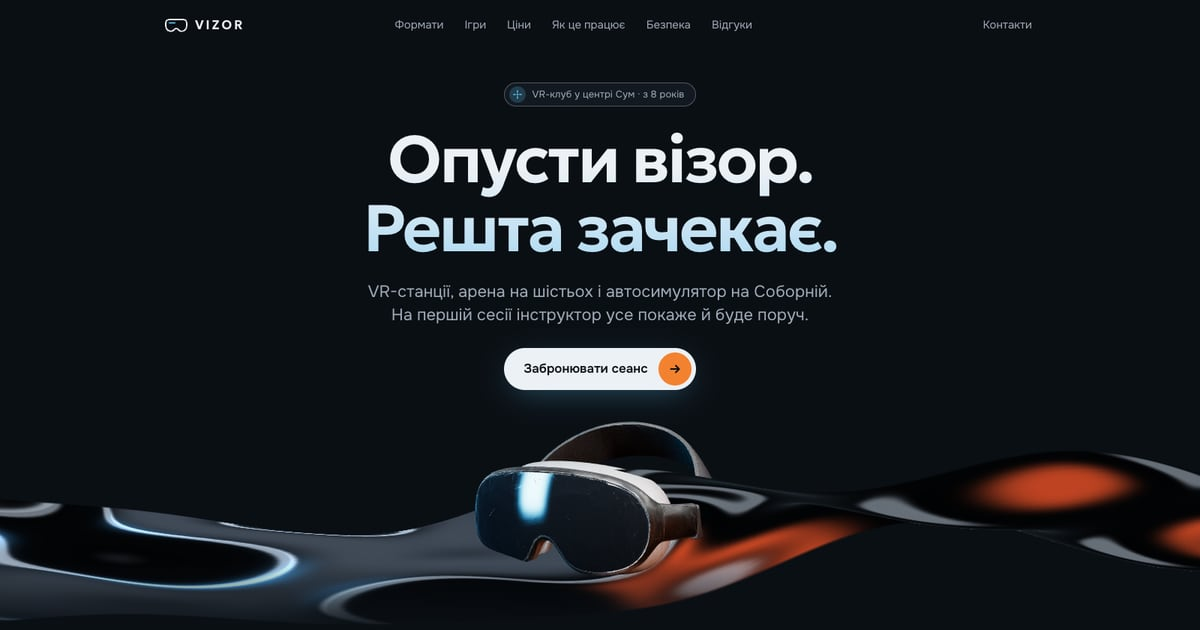
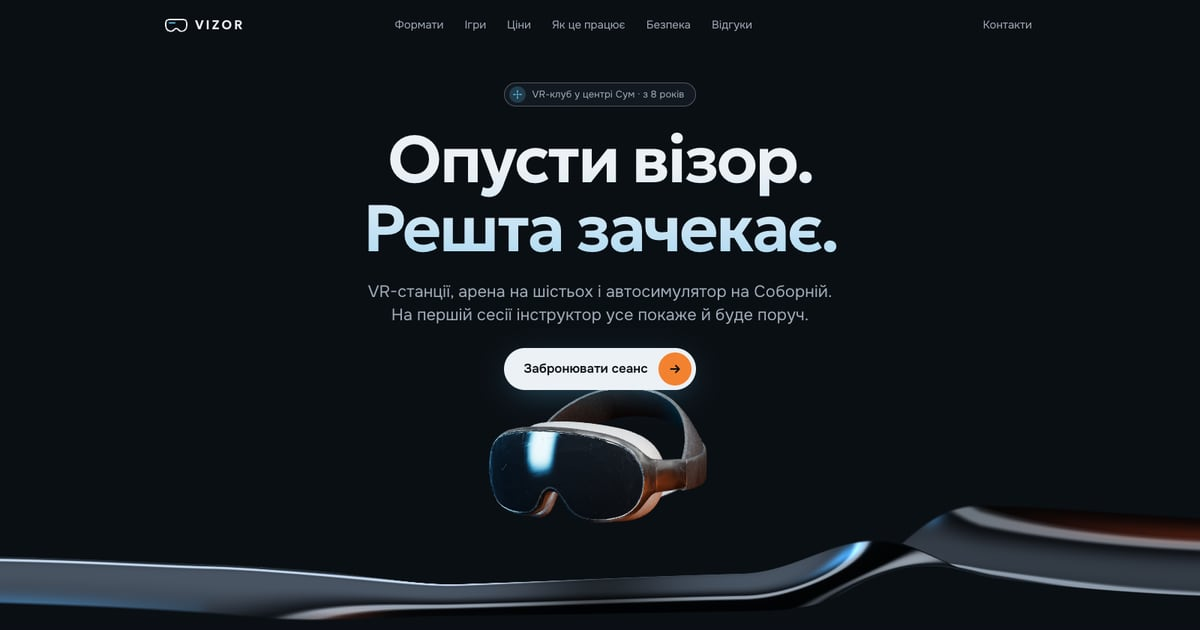
Separate helmet from ribbon in hero scene
Ribbon is now a narrow band pushed back in depth with a calm valley under
the helmet, contact shadow, and a computed clearance; helmet no longer
moves through the ribbon on scroll.

Changed region(s): [[0.0, 0.6333, 1.0, 0.9952]]

diff --git a/scene.js b/scene.js
@@ -119,43 +119,61 @@ export async function loadHelmet() {
 }
 
 /* ---------- Стрічка ---------- */
+/* Габарити шолома всередині квадрата постера (частки сторони, від центру). Виміряно по постеру. */
+const HELM_HALF_W = 0.38;
+const HELM_BOTTOM = 0.245;
+/* Стрічка лежить далі від камери, шолом ближче: по глибині вони не перетинаються ніколи. */
+const RIBBON_Z = -3;
+const HELMET_Z = 0.8;
+
 const RIBBON_VERT = /* glsl */ `
   uniform float uTime;
   uniform float uHalfLen;
   uniform float uHalfW;
   uniform float uCenterY;
   uniform float uXScale;
+  uniform float uHelmX;   /* де висить шолом */
+  uniform float uClear;   /* півширина спокійної зони під шоломом */
+  uniform float uSpread;  /* довжина переходу від спокійної зони до «крил» */
+  uniform float uRise;    /* наскільки крила піднімаються */
+  uniform float uAmpIn;   /* амплітуда хвилі під шоломом (обмежена) */
+  uniform float uAmpOut;  /* амплітуда хвилі на крилах */
   varying vec3 vPos;
   varying vec3 vNormal;
   varying vec2 vUv2;
+  varying float vPx;
 
   vec3 ribbon(float u, float v) {
     float t = uTime;
     float px = u * uHalfLen;
-    float x = px * uXScale; /* на вузьких екранах хвилі частіші */
-    /* вісь стрічки */
-    float cy = sin(x * 0.52 + t * 0.21) * 0.17 + sin(x * 1.18 - t * 0.15) * 0.06;
-    float cz = cos(x * 0.44 + t * 0.18) * 0.40;
-    /* скручування навколо осі: стрічка то лягає площиною, то стає майже ребром */
-    float th = 0.25 + 0.95 * sin(x * 0.58 - t * 0.19) + 0.30 * sin(x * 1.31 + t * 0.13);
-    float w = uHalfW * (1.0 + 0.20 * sin(x * 0.77 + t * 0.11));
-    /* складки шовку впоперек */
-    float fold = sin(v * 2.6 + x * 1.6 + t * 0.27) * 0.30 + sin(v * 5.0 - x * 1.1 - t * 0.2) * 0.08;
+    /* e = 0 під шоломом, 1 на крилах */
+    float e = smoothstep(uClear, uClear + uSpread, abs(px - uHelmX));
+    float x = px * uXScale;
+    float wave = sin(x * 0.62 + t * 0.22) * 0.7 + sin(x * 1.3 - t * 0.16) * 0.3; /* у межах [-1, 1] */
+    float cy = uCenterY + uRise * e + wave * mix(uAmpIn, uAmpOut, e);
+    float cz = cos(x * 0.5 + t * 0.18) * 0.25 * e;
+    /* скручування: під шоломом стрічка лежить площиною до камери, на крилах перевертається */
+    float thFree = 0.4 + x * 0.55 + t * 0.08 + 0.6 * sin(x * 0.9 - t * 0.2);
+    float thIn = -0.55 + 0.1 * sin(t * 0.3 + x);
+    float th = mix(thIn, thFree, e);
+    float w = uHalfW * (1.0 + 1.3 * e + 0.1 * sin(x * 0.8 + t * 0.11));
     float a = v * w;
-    float b = fold * w;
-    return vec3(px, uCenterY + cy + a * cos(th) + b * sin(th), cz + a * sin(th) - b * cos(th));
+    float b = (v * v - 0.5) * 0.55 * w; /* легкий жолоб упоперек: бліки тягнуться вздовж стрічки */
+    return vec3(px, cy + a * cos(th) + b * sin(th), cz + a * sin(th) - b * cos(th));
   }
 
   void main() {
     float u = position.x;
     float v = position.y;
     vec3 p = ribbon(u, v);
-    vec3 du = ribbon(u + 0.004, v) - p;
+    vec3 du = ribbon(u + 0.003, v) - p;
     vec3 dv = ribbon(u, v + 0.02) - p;
     vNormal = normalize(cross(du, dv));
-    vPos = p;
+    vec4 wp = modelMatrix * vec4(p, 1.0);
+    vPos = wp.xyz;
     vUv2 = vec2(u, v);
-    gl_Position = projectionMatrix * viewMatrix * vec4(p, 1.0);
+    vPx = p.x;
+    gl_Position = projectionMatrix * viewMatrix * wp;
   }
 `;
 
@@ -168,46 +186,53 @@ const RIBBON_FRAG = /* glsl */ `
   uniform vec3 uAccent;
   uniform vec3 uAccent2;
   uniform float uFade;
+  uniform vec3 uShadow; /* x центру, півширина, сила */
   varying vec3 vPos;
   varying vec3 vNormal;
   varying vec2 vUv2;
+  varying float vPx;
 
   /* Уявна «студія», яку відбиває рідкий метал. Усі кольори — з палітри сайту. */
   vec3 studio(vec3 r) {
     float up = r.y * 0.5 + 0.5;
-    vec3 c = mix(uSurface * 0.8, uSurface * 1.55, smoothstep(0.0, 0.5, up));
-    c = mix(c, uMuted * 0.7, smoothstep(0.5, 1.0, up));
-    /* довгі софтбокси: дають дзеркальні смуги, як на полірованому титані */
-    float s1 = smoothstep(0.50, 0.98, sin(r.y * 6.0 + sin(r.x * 2.4) * 1.1 + 0.5));
-    float s2 = smoothstep(0.80, 1.00, sin(r.y * 11.0 - r.x * 1.9 + 2.4));
-    c += uMuted * 0.32 * s1 + uText * (0.5 * s1 * s1 * s1 * s1 + 0.2 * s2 * s1);
+    vec3 c = mix(uSurface * 0.75, uSurface * 1.7, smoothstep(0.0, 0.5, up));
+    c = mix(c, uMuted * 0.8, smoothstep(0.45, 1.0, up));
+    /* довгі софтбокси: дзеркальні смуги вздовж стрічки */
+    float s1 = smoothstep(0.35, 0.98, sin(r.y * 4.6 + r.z * 1.4 + 0.4));
+    float s2 = smoothstep(0.75, 1.00, sin(r.y * 9.0 + r.z * 2.0 + 2.2));
+    c += uMuted * 0.30 * s1 + uText * (0.55 * s1 * s1 * s1 + 0.22 * s2 * s1);
     /* два акцентні відблиски: вузькі, тому кольору на екрані небагато */
-    float gA = pow(max(dot(r, normalize(vec3(0.78, -0.30, 0.55))), 0.0), 44.0);
-    float gB = pow(max(dot(r, normalize(vec3(-0.72, 0.38, 0.58))), 0.0), 32.0);
-    c += mix(uAccent, uText, 0.12) * gA * 0.95 + mix(uAccent2, uText, 0.12) * gB * 0.9;
+    float gA = pow(max(dot(r, normalize(vec3(0.70, -0.25, 0.66))), 0.0), 30.0);
+    float gB = pow(max(dot(r, normalize(vec3(-0.66, 0.30, 0.68))), 0.0), 24.0);
+    c += mix(uAccent, uText, 0.12) * gA * 1.0 + mix(uAccent2, uText, 0.12) * gB * 0.95;
     return c;
   }
 
   void main() {
     vec3 n = normalize(vNormal);
     vec3 V = normalize(cameraPosition - vPos);
-    if (dot(n, V) < 0.0) n = -n;
+    float back = step(dot(n, V), 0.0);
+    n = mix(n, -n, back);
     float ndv = max(dot(n, V), 0.0);
     float fres = pow(1.0 - ndv, 4.0);
     vec3 col = studio(reflect(-V, n));
-    /* перламутровий френель по краях складок */
-    col += mix(uAccent2, uText, 0.65) * fres * 0.30;
-    /* легке затемнення в глибині складок */
-    col *= 0.72 + 0.28 * smoothstep(-0.9, 0.6, n.y);
+    col += mix(uAccent2, uText, 0.65) * fres * 0.28;
+    /* зворотний бік стрічки трохи темніший: видно, що це стрічка, а не площина */
+    col *= mix(1.0, 0.72, back);
 
-    float edge = smoothstep(1.0, 0.965, abs(vUv2.y));
+    /* м'яка тінь від шолома */
+    float d = (vPx - uShadow.x) / uShadow.y;
+    float sh = uShadow.z * exp(-d * d);
+    col *= 1.0 - sh;
+
+    float edge = smoothstep(1.0, 0.94, abs(vUv2.y));
     float alpha = edge * uFade;
     gl_FragColor = vec4(col * alpha, alpha);
   }
 `;
 
 export function makeRibbon(pal, mobile) {
-  const geo = new THREE.PlaneGeometry(2, 2, mobile ? 110 : 220, mobile ? 20 : 40);
+  const geo = new THREE.PlaneGeometry(2, 2, mobile ? 140 : 280, mobile ? 10 : 16);
   const mat = new THREE.ShaderMaterial({
     vertexShader: RIBBON_VERT,
     fragmentShader: RIBBON_FRAG,
@@ -219,15 +244,20 @@ export function makeRibbon(pal, mobile) {
     blendSrc: THREE.OneFactor,
     blendDst: THREE.OneMinusSrcAlphaFactor,
     uniforms: {
-      uTime: { value: 0 }, uHalfLen: { value: 4 }, uHalfW: { value: 0.5 }, uCenterY: { value: -1.2 }, uXScale: { value: 1 },
-      uFade: { value: 1 },
+      uTime: { value: 0 }, uHalfLen: { value: 4 }, uHalfW: { value: 0.15 }, uCenterY: { value: -1.5 },
+      uXScale: { value: 1 }, uHelmX: { value: 0 }, uClear: { value: 1 }, uSpread: { value: 0.9 },
+      uRise: { value: 0.25 }, uAmpIn: { value: 0.03 }, uAmpOut: { value: 0.15 },
+      uFade: { value: 1 }, uShadow: { value: new THREE.Vector3(0, 1, 0) },
       uBg: { value: pal.bg }, uSurface: { value: pal.surface }, uText: { value: pal.text },
       uMuted: { value: pal.muted }, uAccent: { value: pal.accent }, uAccent2: { value: pal.accent2 },
     },
   });
   const mesh = new THREE.Mesh(geo, mat);
   mesh.frustumCulled = false;
-  mesh.position.z = -2.4;
+  /* Координати стрічки задаємо в площині екрана (z = 0), а сам меш відсуваємо вглиб
+     і збільшуємо на стільки ж, щоб на екрані він лишився там, де порахували. */
+  mesh.position.z = RIBBON_Z;
+  mesh.scale.setScalar((CAM_Z - RIBBON_Z) / CAM_Z);
   mesh.renderOrder = -1;
   return mesh;
 }
@@ -251,7 +281,8 @@ export function initHero({ canvas, hero, anchor, mobile, onFirstFrame, onHelmet,
   let helmetIn = 0;
 
   const VH = visibleHeight();
-  const state = { w: 0, h: 0, baseX: 0, baseY: 0, scale: 1, pitchFix: 0 };
+  const NEAR = (CAM_Z - HELMET_Z) / CAM_Z; /* шолом ближче до камери: компенсуємо перспективу */
+  const state = { w: 0, h: 0, baseX: 0, baseY: 0, scale: 1, pitchFix: 0, shadowR: 1 };
 
   function layout() {
     const rect = hero.getBoundingClientRect();
@@ -269,16 +300,35 @@ export function initHero({ canvas, hero, anchor, mobile, onFirstFrame, onHelmet,
     const a = anchor.getBoundingClientRect();
     const cx = a.left + a.width / 2 - rect.left;
     const cy = a.top + a.height / 2 - rect.top;
+    const side = a.width * unit;
     state.baseX = (cx - w / 2) * unit;
     state.baseY = (h / 2 - cy) * unit;
-    state.scale = (a.width * unit) / POSTER_SPAN;
+    state.scale = side / POSTER_SPAN;
     state.pitchFix = Math.atan2(state.baseY, CAM_Z);
 
-    /* Стрічка: нижня третина, краї за межами екрана. */
-    U.uHalfLen.value = VW * 0.5 * 1.45 + 0.6;
-    U.uHalfW.value = VH * (mobile ? 0.085 : 0.105);
-    U.uCenterY.value = state.baseY - VH * 0.055;
+    /* Зазор між шоломом і стрічкою рахуємо з запасом на всі рухи:
+       покачування (0.035 * scale), нахили за курсором і власне погойдування (0.03 * scale)
+       плюс видимий проміжок 3 % висоти екрана. Найвища точка стрічки під шоломом —
+       uCenterY + uAmpIn + 1.25 * uHalfW — завжди нижча за цю межу. */
+    const helmBottom = state.baseY - HELM_BOTTOM * side;
+    const limit = helmBottom - 0.065 * state.scale - 0.03 * VH;
+    const floor = -VH / 2 + 0.012 * VH;
+    const room = Math.max(limit - floor, 0.05 * VH);
+    const ampIn = room * 0.1;
+    const halfW = Math.min((room - 2 * ampIn) / 2.5, 0.045 * VH);
+    U.uAmpIn.value = ampIn;
+    U.uHalfW.value = halfW;
+    U.uCenterY.value = limit - ampIn - halfW * 1.25;
+    U.uHelmX.value = state.baseX;
+    U.uClear.value = HELM_HALF_W * side * 1.05 + 0.1 * state.scale;
+    U.uSpread.value = Math.min(1.5, Math.max(0.35, VW * 0.22));
+    /* на вузьких екранах крилам ніде розгорнутися, тому вони майже не піднімаються */
+    const wing = Math.min(1, Math.max(0.2, (VW / 2 - U.uClear.value) / 1.2));
+    U.uRise.value = 0.05 * VH * wing;
+    U.uAmpOut.value = 0.035 * VH * wing;
+    U.uHalfLen.value = VW * 0.5 * 1.25 + 0.4;
     U.uXScale.value = Math.min(2.2, Math.max(1, 1.5 / camera.aspect));
+    state.shadowR = HELM_HALF_W * side * 0.62;
   }
 
   const pointer = { x: 0, y: 0, tx: 0, ty: 0 };
@@ -313,24 +363,26 @@ export function initHero({ canvas, hero, anchor, mobile, onFirstFrame, onHelmet,
 
     U.uTime.value = time;
     const s = scrollP * scrollP * (3 - 2 * scrollP);
-    ribbon.position.y = -s * 0.5;
+    ribbon.position.y = -s * 0.6; /* при прокрутці стрічка йде вниз, шолом угору: зазор тільки росте */
     U.uFade.value = 1 - Math.min(1, Math.max(0, (scrollP - 0.45) / 0.5));
 
+    let lift = 0;
     if (helmet) {
       helmetIn = Math.min(1, helmetIn + dt * 0.8);
       const ease = helmetIn * helmetIn * (3 - 2 * helmetIn);
-      const sc = state.scale * (1 - s * 0.45);
-      rig.scale.setScalar(sc);
-      rig.position.set(
-        state.baseX,
-        state.baseY + Math.sin(time * 0.9) * 0.035 * ease * state.scale + s * 0.9,
-        -s * 5,
-      );
+      const bob = Math.sin(time * 0.9) * 0.035 * ease * state.scale;
+      lift = bob + s * 1.1;
+      /* Шолом не йде вглиб крізь стрічку: він зменшується й піднімається, лишаючись перед нею. */
+      rig.scale.setScalar(state.scale * NEAR * (1 - s * 0.5));
+      rig.position.set(state.baseX * NEAR, (state.baseY + lift) * NEAR, HELMET_Z);
       /* Покачування + кілька градусів за курсором + поворот при прокрутці. */
-      helmet.rotation.x = BASE_ROT.x + state.pitchFix + Math.sin(time * 0.6) * 0.03 * ease + pointer.y * 0.07 + s * 0.35;
-      helmet.rotation.y = BASE_ROT.y + Math.sin(time * 0.45) * 0.06 * ease + pointer.x * 0.1 + s * 1.5;
+      helmet.rotation.x = BASE_ROT.x + state.pitchFix + Math.sin(time * 0.6) * 0.03 * ease + pointer.y * 0.06 + s * 0.3;
+      helmet.rotation.y = BASE_ROT.y + Math.sin(time * 0.45) * 0.06 * ease + pointer.x * 0.1 + s * 1.4;
       helmet.rotation.z = BASE_ROT.z + Math.sin(time * 0.7 + 1.0) * 0.015 * ease;
     }
+    /* Тінь під шоломом: слабшає й розпливається, коли шолом піднімається. */
+    const hgt = Math.max(0, lift / state.scale + 0.035);
+    U.uShadow.value.set(state.baseX, state.shadowR * (1 + hgt * 1.2), helmet ? 0.62 * helmetIn / (1 + hgt * 2.2) : 0);
     canvas.style.opacity = String(1 - Math.min(1, Math.max(0, (scrollP - 0.55) / 0.4)));
 
     renderer.render(scene, camera);
@@ -376,8 +428,10 @@ export function initHero({ canvas, hero, anchor, mobile, onFirstFrame, onHelmet,
       state.w = 0; layout();
       U.uTime.value = t; U.uFade.value = 1;
       ribbon.visible = showRibbon; rig.visible = showHelmet;
+      ribbon.position.y = 0;
+      U.uShadow.value.set(state.baseX, state.shadowR * 1.04, showHelmet ? 0 : 0.58);
       if (helmet) {
-        rig.scale.setScalar(state.scale); rig.position.set(state.baseX, state.baseY, 0);
+        rig.scale.setScalar(state.scale * NEAR); rig.position.set(state.baseX * NEAR, state.baseY * NEAR, HELMET_Z);
         helmet.rotation.set(BASE_ROT.x + state.pitchFix, BASE_ROT.y, BASE_ROT.z);
       }
       renderer.render(scene, camera);

diff --git a/styles.css b/styles.css
@@ -32,7 +32,7 @@
   --nav-h: 60px;
 
   /* Сторона квадрата постера/шолома на першому екрані */
-  --helm: min(88vw, 54svh, 640px);
+  --helm: min(88vw, 48svh, 600px);
 }
 @media (min-width: 768px) {
   :root { --gutter: 32px; --section: 112px; --nav-h: 68px; }
@@ -137,11 +137,11 @@ button, input, select, textarea { font: inherit; color: inherit; }
   position: relative; isolation: isolate; overflow: hidden;
   min-height: max(100svh, 620px);
   display: flex; flex-direction: column; align-items: center;
-  padding: calc(var(--nav-h) + clamp(20px, 5svh, 72px)) var(--gutter) calc(var(--helm) * 0.62);
+  padding: calc(var(--nav-h) + clamp(20px, 5svh, 72px)) var(--gutter) calc(var(--helm) * 0.80);
   text-align: center;
 }
 .hero::after { /* плавний перехід сцени в контент */
-  content: ''; position: absolute; inset: auto 0 0 0; height: 90px; z-index: 3; pointer-events: none;
+  content: ''; position: absolute; inset: auto 0 0 0; height: 28px; z-index: 3; pointer-events: none;
   background: linear-gradient(to top, var(--bg), transparent);
 }
 .hero__canvas, .hero__ribbon, .hero__poster { position: absolute; pointer-events: none; user-select: none; }
@@ -151,7 +151,7 @@ button, input, select, textarea { font: inherit; color: inherit; }
   transform: translateX(-50%); transition: opacity .9s ease;
 }
 .hero__poster {
-  z-index: 2; left: 50%; top: calc(100% - var(--helm) * 0.37);
+  z-index: 2; left: 50%; top: calc(100% - var(--helm) * 0.57);
   width: var(--helm); height: var(--helm); transform: translate(-50%, -50%);
   transition: opacity .5s ease;
 }

diff --git a/README.md b/README.md
@@ -65,6 +65,8 @@ Netlify: перетягніть теку в Netlify Drop або підключі
 - Шолом стає точно на місце постера (`#poster`): розмір і позицію задає одна CSS-змінна `--helm`.
 - Оточення: RoomEnvironment + три світлові панелі в кольорах палітри.
 - Стрічка: площина, деформована у вершинному шейдері, «студійні» відбиття й френель у фрагментному. Текстур немає.
+- Шолом і стрічка не перетинаються: стрічка відсунута вглиб (z = −3), шолом ближче до камери (z = 0.8) і висить над нею. Під шоломом стрічка йде «долиною» з обмеженою амплітудою; зазор рахується в `layout()` (`scene.js`) із запасом на покачування, нахил за курсором і хвилю. При прокрутці шолом піднімається і зменшується, а не йде вглиб. На стрічці під шоломом — м'яка тінь, яка слабшає, коли шолом вище.
+- `tools/check-gap.mjs` перевіряє це покадрово (маски шолома і стрічки окремо): на 375, 768 і 1440 px перетин 0 пікселів, найменший зазор 44–62 px за цикл анімації з курсором по кутах і прокруткою до 60 %.
 - devicePixelRatio ≤ 2 (на мобільних ≤ 1.5). Рендер зупиняється, коли перший екран поза видимістю або вкладка прихована.
 - Мобільні: менше сегментів у стрічки, без стеження за курсором, без гіроскопа.
 - `prefers-reduced-motion` або немає WebGL: canvas не створюється, лишаються статичний постер і статична стрічка.
